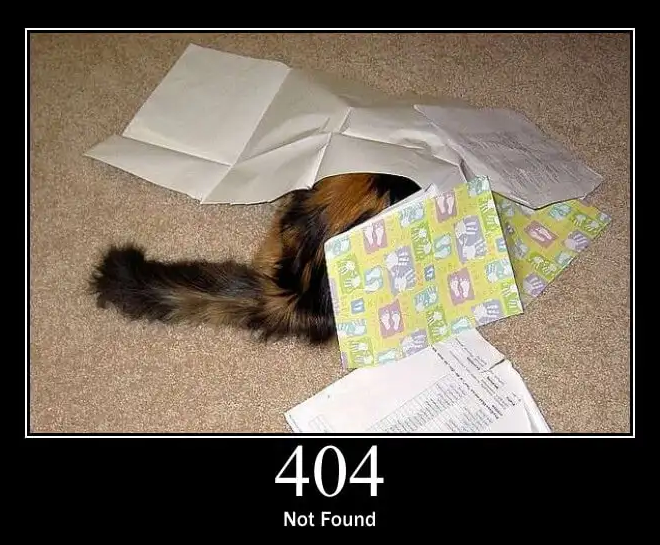
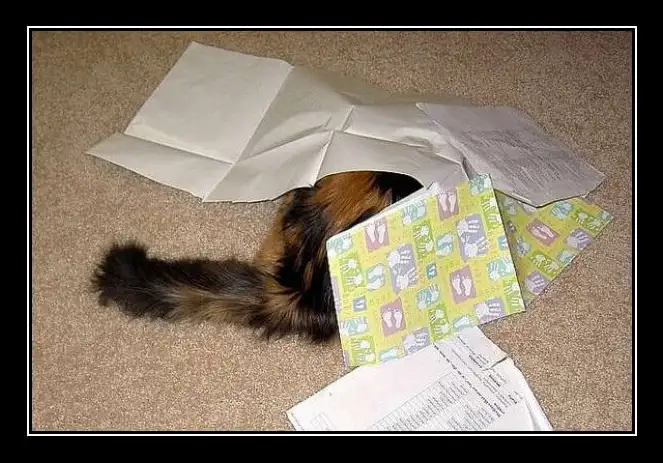
Fix:修改404图片大小

diff --git a/plan.md b/plan.md
@@ -5,6 +5,8 @@
 持续维护 Gumezm 个人博客：Chirpy 主题 + EF/ORI 双风格、静态相册、GitHub Pages 发布。
 当前同时跟踪四条工作流：EF 主题细节打磨、相册维护与扩充、文章写作与内容、部署与站点基础设施。
 
+2026-11-03 完成一轮全文件审计（不改代码），发现的问题整理为 P08–P14，明细见文末「审计发现」。
+
 ## 开发计划
 
 任务顺序只表示计划展示顺序；未声明阻塞依赖。开发、自动验证、用户验收与交付分别记录。
@@ -18,6 +20,13 @@
 | P05 | 相册扩充：新照片压缩、命名、重跑 `tools/process-gallery.py` | 未开始 | 未记录 | 未记录 | 未记录 | main | planned | gallery | 手工维护的 tags 重跑时保留；总量不超过 200 张 |
 | P06 | 新文章写作：正文、图片、分类与标签 | 未开始 | 未记录 | 未记录 | 未记录 | main | planned | content | 文章图片引用相册文件名 |
 | P07 | 站点基础设施维护：构建版本号/缓存、404、主题切换等 | 未开始 | 未记录 | 未记录 | 未记录 | main | planned | infra | 避免浏览器缓存旧样式 |
+| P08 | 站点隐私与可访问性修正：`_config.yml` exclude 加 `plan.md`（现已泄露到公开站点）、head.html 去掉 `user-scalable=no`、theme-color 对齐 EF 纸色 | 未开始 | 未记录 | 未记录 | 未记录 | main | planned | infra | 审计发现 A1/A2/A5，改动小、收益高，建议最先做 |
+| P09 | EF 第二强调色清理：青绿 `--ef-link-hover` hover 改为语言内方案（去色 + 下划线变墨色），删除该 token | 未开始 | 未记录 | 未记录 | 未记录 | main | planned | theme | 审计发现 A3（即此前审计的 P1）；违反「唯一强调色」法则 |
+| P10 | EF 头像配置化：`_config.yml` 增加 `avatar_ef`，sidebar.html 改读配置；顺手清理 `#avatar img` 的双重 border 规则（1px 与 0 冲突） | 未开始 | 未记录 | 未记录 | 未记录 | main | planned | theme | 审计发现 A4/A8；以后换头像只改一处 |
+| P11 | 文章排版规范：重排 markdown-study 的 11 处 `#####` 步骤标题（改列表/加粗，让 TOC 回归章节级）；沉淀写作约定（标题层级、图片引用相册文件名） | 未开始 | 未记录 | 未记录 | 未记录 | main | planned | content | 审计发现 A6；涉及正文改写，等用户确认再动 |
+| P12 | 分享预览图：设置 `social_preview_image`（og:image），补社交分享卡片 | 未开始 | 未记录 | 未记录 | 未记录 | main | planned | infra | 审计发现 B6；可选一张站标图 |
+| P13 | 自定义域名落地：CF Pages 与 GitHub Pages 的取舍定案后，统一改 `url`/CNAME/DNS | 未开始 | 未记录 | 未记录 | 未记录 | main | planned | infra | 审计发现 B5；依赖用户在 Cloudflare 侧的决策，暂缓 |
+| P14 | EF 字号阶梯收敛（17 种一次性字号 → 5 档）+ 首页列表行键盘焦点补底色 | 未开始 | 未记录 | 未记录 | 未记录 | main | planned | theme | 审计发现 A9（即此前审计的 P3）；锦上添花 |
 
 ## 计划变更记录
 
@@ -26,3 +35,20 @@
 | 日期 | 变更 | 涉及编号 | 原因 |
 | --- | --- | --- | --- |
 | 2026-11-02 | 初始建立 | P01–P07 | 看板初始化：P01–P03 依据现有提交记录整理为基线，P04–P07 为当前四条工作流的后续任务 |
+| 2026-11-03 | 新增 | P08–P14 | 2026-11-03 全文件审计：扫描 config、布局、插件、数据、脚本、CI 与 `_site` 产物，按严重度立任务；P04 保留为 EF 走查的总项 |
+
+## 审计发现（2026-11-03，只审计未改代码）
+
+已核实的错误与隐患，已全部立为任务：
+
+- **A1（P08，重要）**：`plan.md` 无 front matter，被 Jekyll 当静态文件拷进 `_site`，正在公开站点发布（`/plan.md` 可直接访问）。修法：`_config.yml` 的 `exclude` 增加 `plan.md`。
+- **A2（P08）**：`head.html` 的 viewport 带 `user-scalable=no`，禁止双指缩放，WCAG 1.4.4 可访问性问题（继承自模板）。
+- **A5（P08）**：`theme-color` 是 `#f7f7f7`/`#1b1b1e`，与 EF 纸色 `#f4f4f2`/`#191919` 不一致，移动端浏览器框出现色差。
+- **A3（P09）**：EF 链接 hover 用青绿 `#2dbaba`，是黄色之外的第二强调色，违反设计语言的「唯一强调色」。
+- **A4/A8（P10）**：EF 头像文件名硬编码在 `sidebar.html`（换头像要改两处）；`#avatar img` 的 border 规则写了两次（1px 与 0），后者实际生效。
+- **A6（P11）**：`markdown-study` 用 11 个 `#####` 当步骤编号，TOC 冗长、层级失真。
+- **B6（P12）**：`social_preview_image` 未设置，社交分享无预览图。
+- **B5（P13）**：域名决策悬置——`_config.yml` 仍是 `url: https://gumezm.github.io`，www.seija.org 的接入等 CF Pages 定案。
+- **A9（P14）**：字号一次性值 17 种；列表行键盘焦点只有黄条无底色变化。
+
+审计中确认无问题的部分：布局与插件的 Liquid 逻辑（首页置顶分页、相册排序、灯箱）、`ef-theme.js` / `mode-toggle.js` 的持久化与跨标签同步、`tools/process-gallery.py`（EXIF 清除、命名去重）、`pages-deploy.yml`（分支发布避开部署锁）、`Gemfile` 与 `gallery.yml`。前两轮已完成未提交的修正：提示块图标对齐、死代码清理（`--ef-snap`/`--ef-danger`/prompt 重复规则）、EF 方形头像——已在 2026-11-03 随提交 `e5fca3c` 发布。
